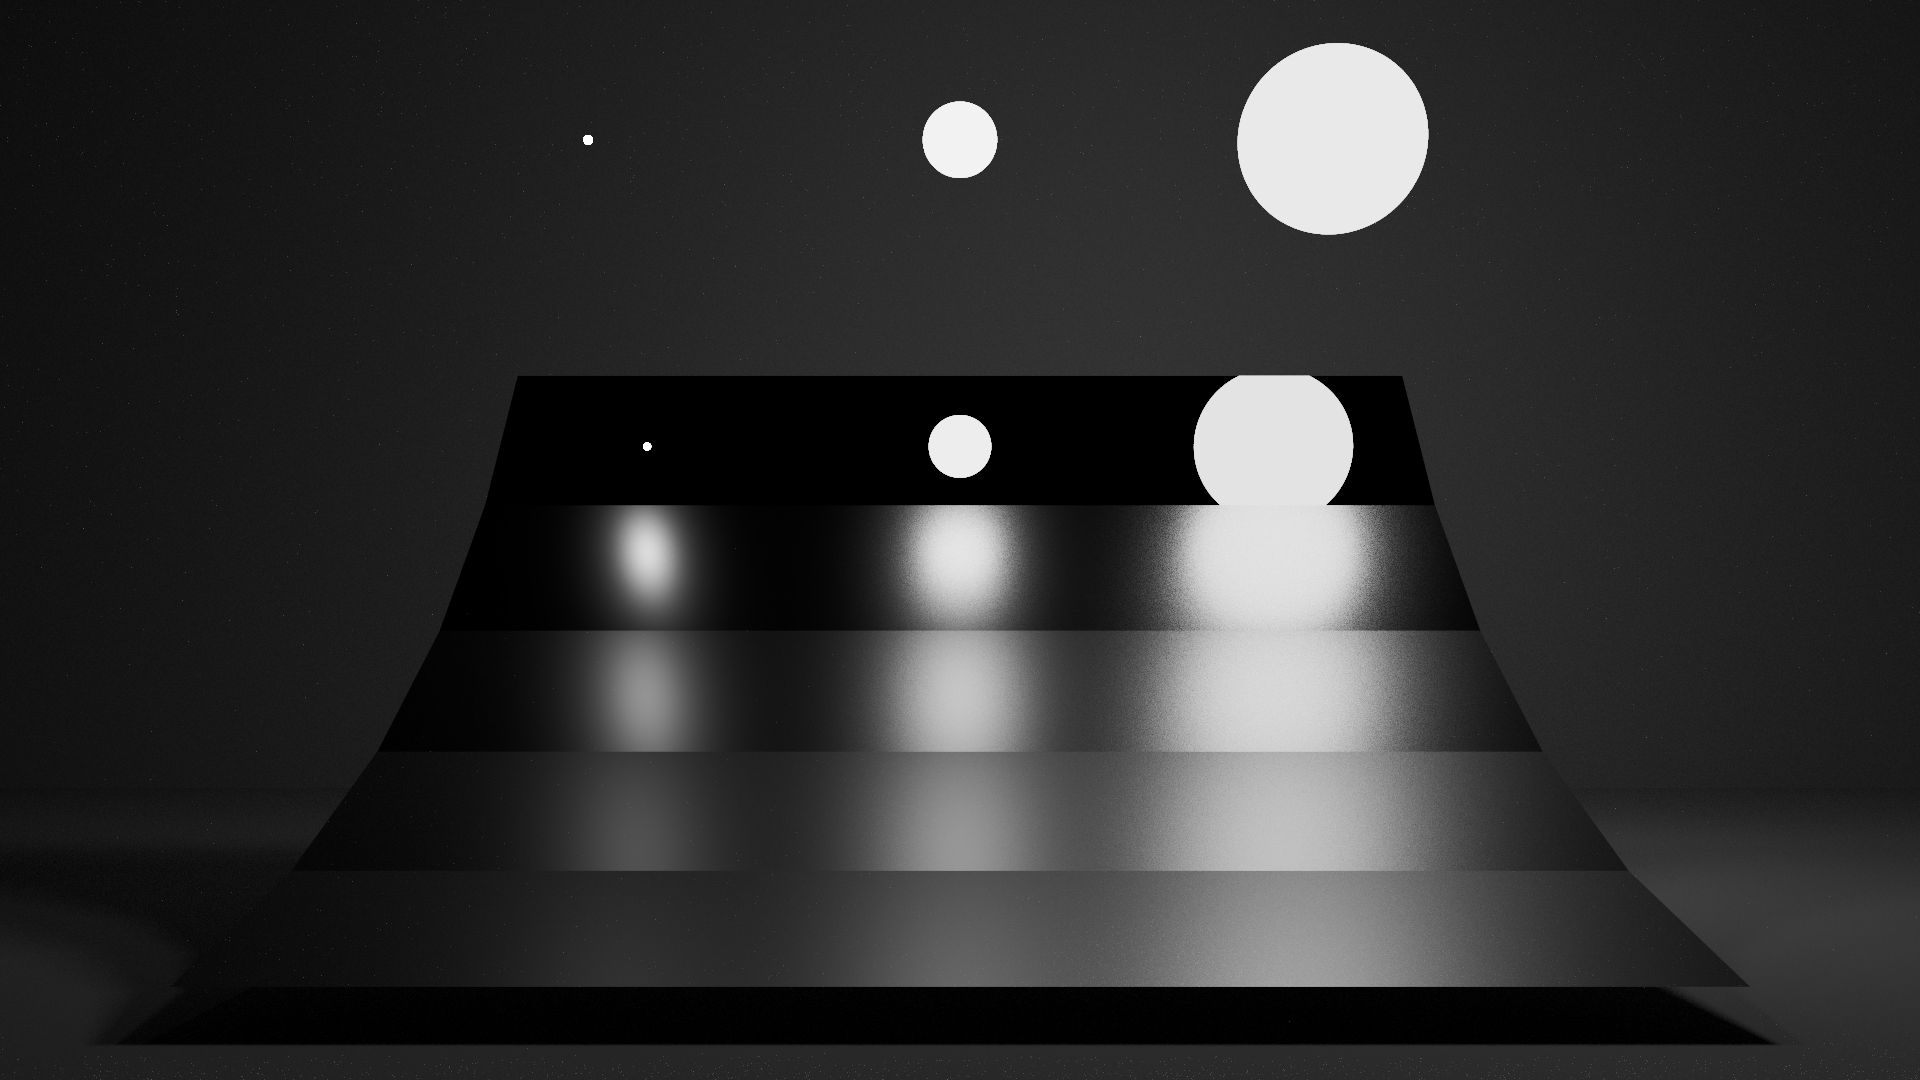
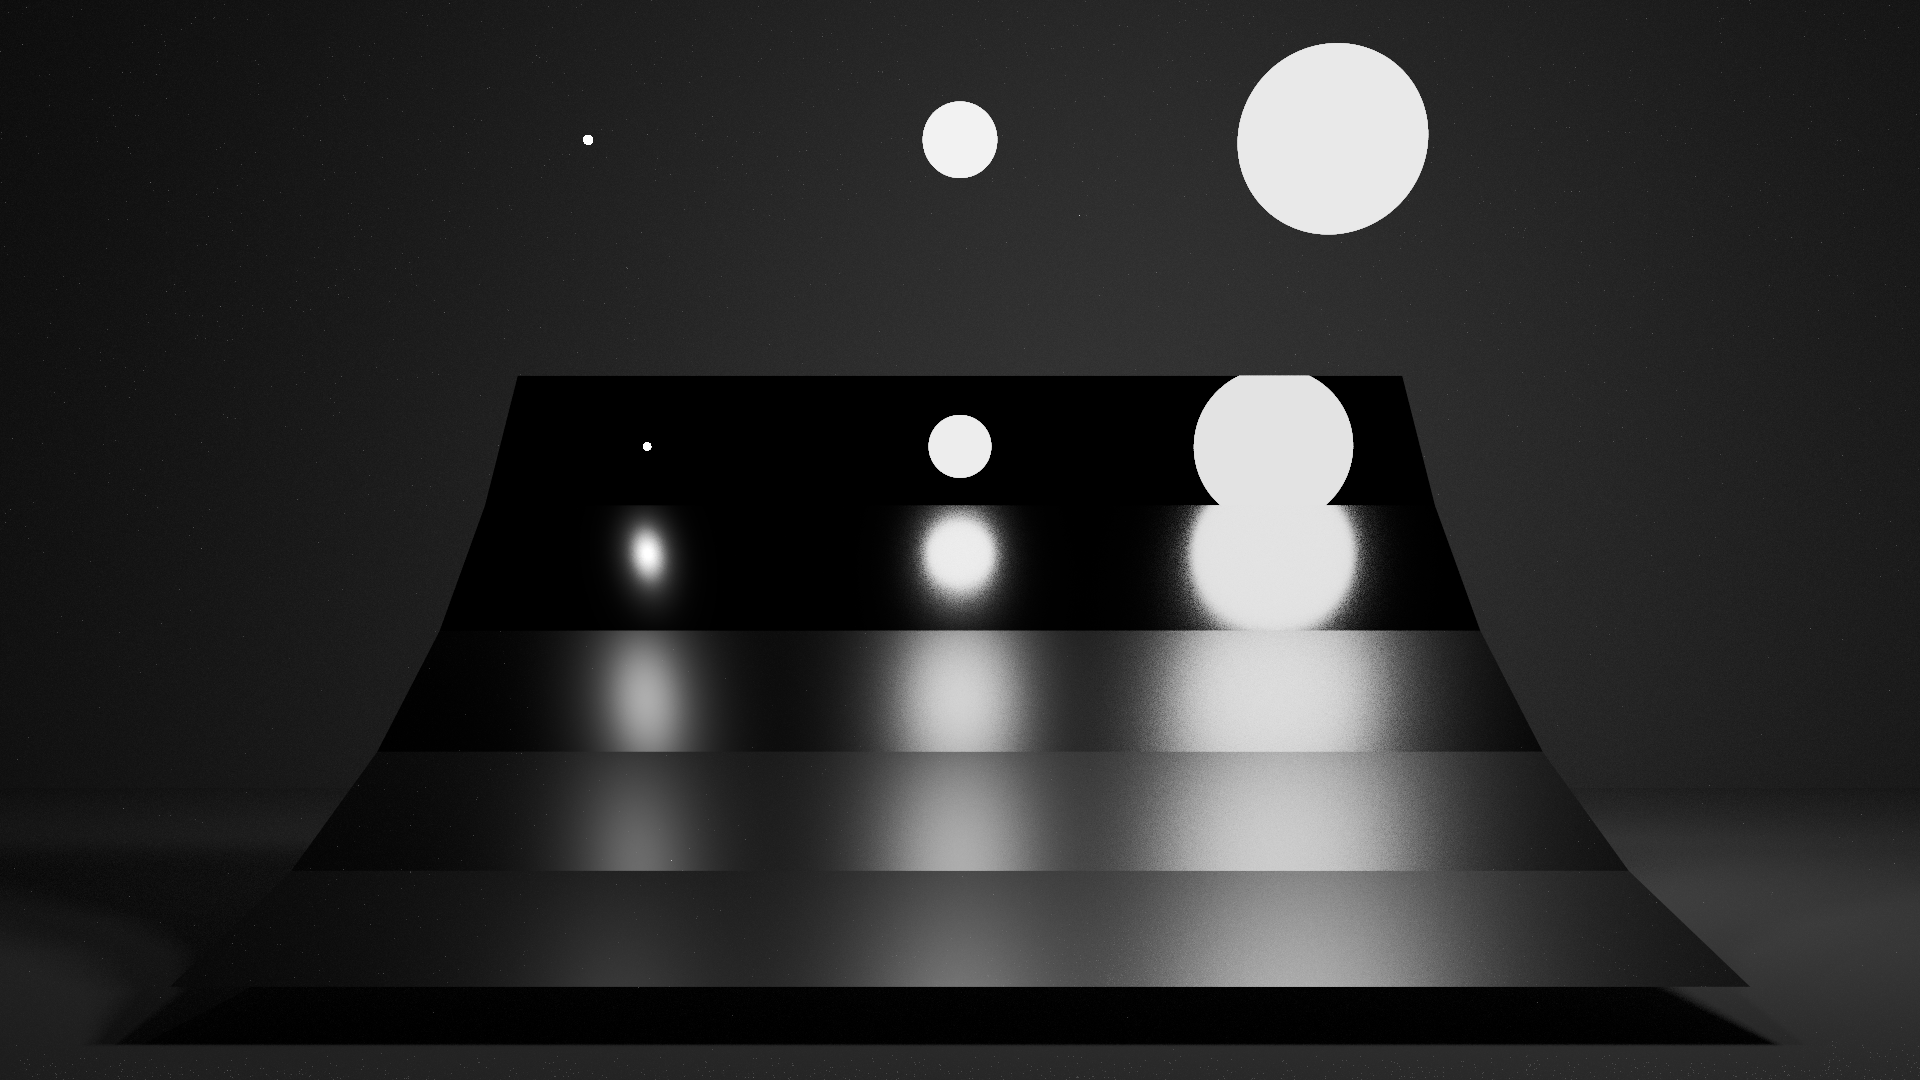
Use smoother transition between plank roughness

diff --git a/src/scenarios/veach_mis.rs b/src/scenarios/veach_mis.rs
@@ -56,10 +56,10 @@ pub fn veach_mis_scene(width: usize, height: usize) -> Scene {
     let plate_length = 1.0;
 
     let plate_configs: [(f32, f32); 5] = [
-        (-14.0, 0.16),
-        (-23.0, 0.12),
-        (-32.0, 0.08),
-        (-42.0, 0.04),
+        (-14.0, 0.08),
+        (-23.0, 0.04),
+        (-32.0, 0.02),
+        (-42.0, 0.01),
         (-52.0, 0.00),
     ];
 
